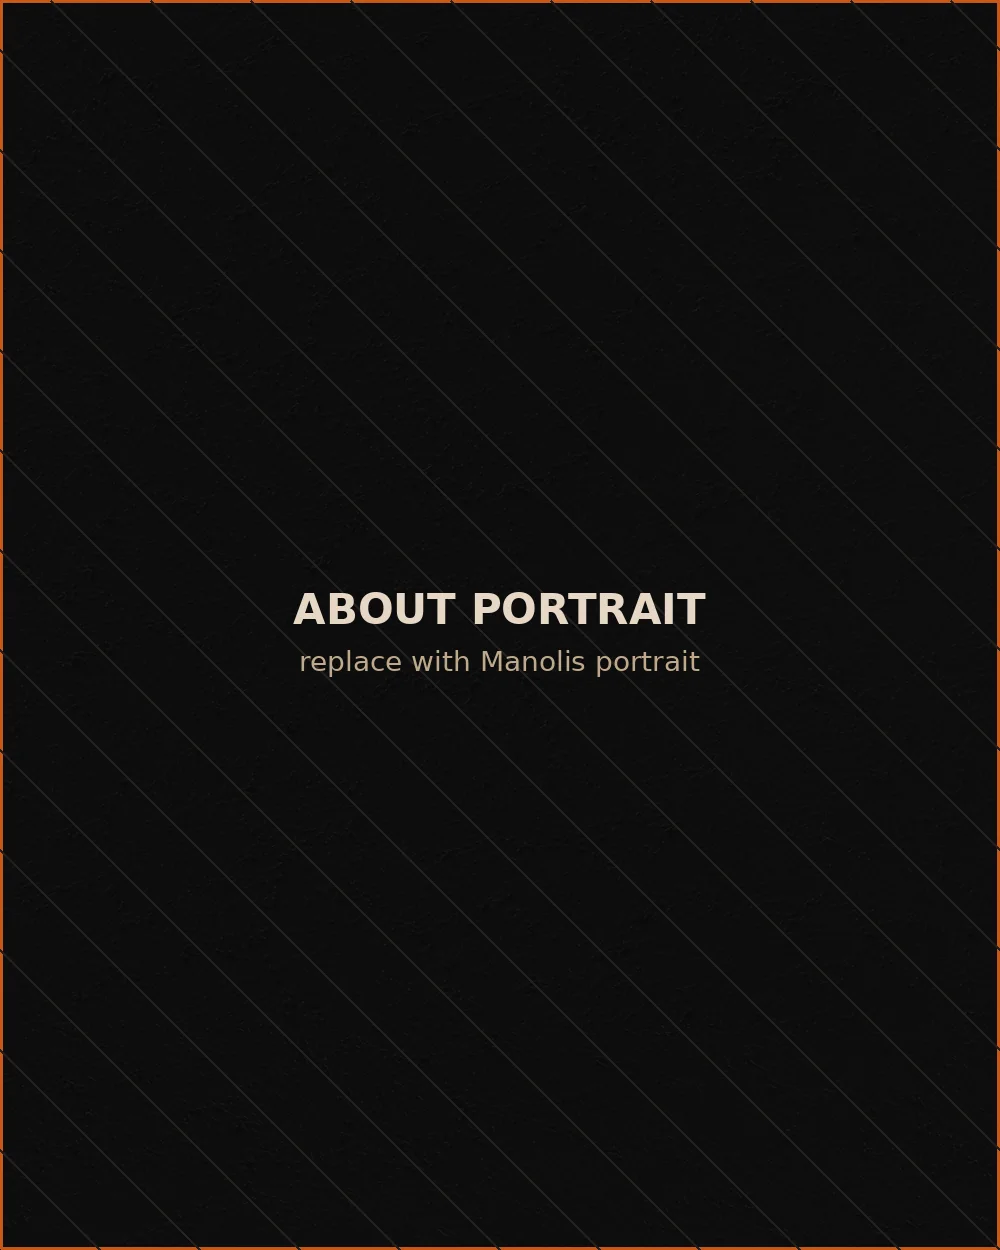
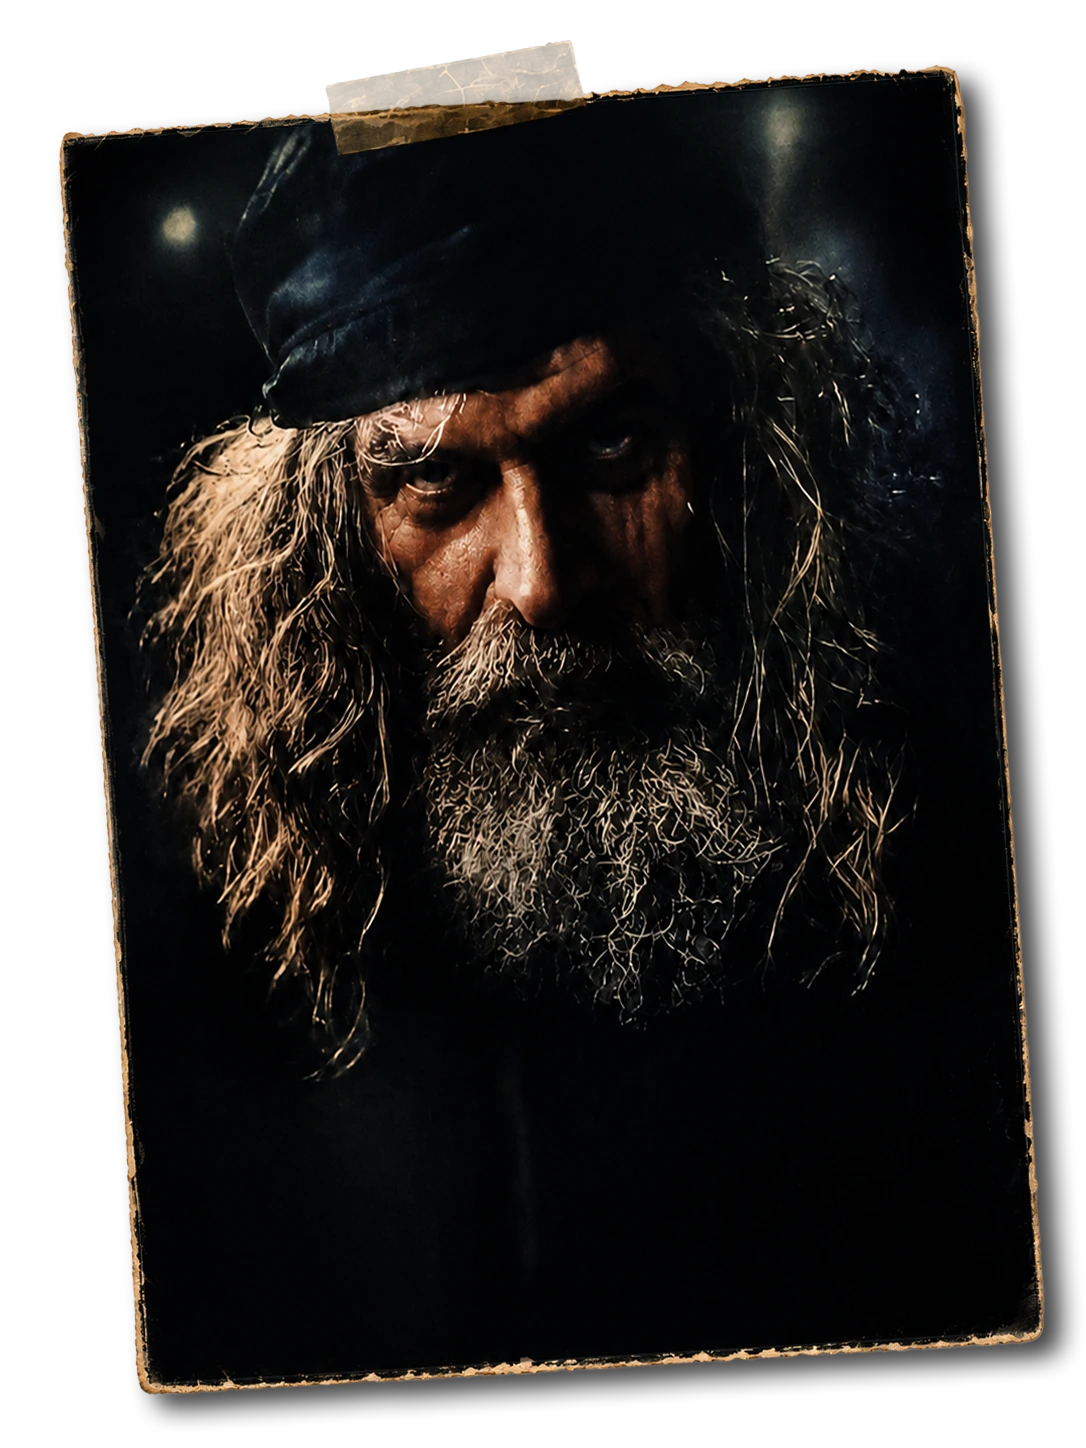
backgrounds

diff --git a/03_prototype/src/sections/AboutSection.tsx b/03_prototype/src/sections/AboutSection.tsx
@@ -7,16 +7,16 @@ import { siteContent } from '@/content/siteContent';
 
 export function AboutSection() {
   return (
-    <SectionShell id="about" className="grid items-center overflow-hidden">
+    <SectionShell id="about" className="grid items-center">
       <div className="grid gap-12 lg:grid-cols-[0.95fr_1.05fr] lg:items-center">
         <motion.div initial={{ opacity: 0, rotate: -2, y: 30 }} whileInView={{ opacity: 1, rotate: -2, y: 0 }} viewport={{ once: true, amount: 0.25 }} transition={{ duration: 0.7 }} className="relative max-w-[720px]">
-          <div className="relative min-h-[520px] overflow-hidden border border-white/10 bg-black/50 shadow-2xl md:min-h-[760px]">
+          <div className="relative min-h-[520px] overflow-hidden md:min-h-[760px]">
             <Image src="/assets/about/about-manolis-portrait.webp" alt="Manolis portrait placeholder" fill sizes="(max-width: 1024px) 100vw, 45vw" className="object-cover" />
           </div>
           <p className="mt-8 max-w-xs font-display text-2xl leading-tight text-orangeBurnt">{siteContent.about.sideQuote}</p>
         </motion.div>
 
-        <motion.div initial={{ opacity: 0, x: 30 }} whileInView={{ opacity: 1, x: 0 }} viewport={{ once: true, amount: 0.25 }} transition={{ duration: 0.7 }} className="relative texture-panel p-6 md:p-10">
+        <motion.div initial={{ opacity: 0, x: 30 }} whileInView={{ opacity: 1, x: 0 }} viewport={{ once: true, amount: 0.25 }} transition={{ duration: 0.7 }} className="relative p-6 md:p-10">
           <h2 className="brush-heading text-[clamp(4rem,8vw,9rem)] text-bone">
             {siteContent.about.headline.map((line, index) => (
               <span key={line} className={`block ${index === 1 ? 'text-orangeBurnt' : ''}`}>{line}</span>

diff --git a/03_prototype/src/sections/WorkshopSection.tsx b/03_prototype/src/sections/WorkshopSection.tsx
@@ -8,7 +8,7 @@ import { siteContent } from '@/content/siteContent';
 
 export function WorkshopSection() {
   return (
-    <SectionShell id="workshop" className="overflow-hidden">
+    <SectionShell id="workshop">
       <div className="absolute inset-x-0 top-[8%] -z-10 h-[56vh] opacity-70">
         <Image src="/assets/workshop/workshop-background.webp" alt="Workshop background placeholder" fill sizes="100vw" className="object-cover" />
         <div className="absolute inset-0 bg-gradient-to-b from-black via-black/40 to-black" />
@@ -21,7 +21,7 @@ export function WorkshopSection() {
 
         <div className="hidden lg:block" />
 
-        <motion.div initial={{ opacity: 0, x: 30 }} whileInView={{ opacity: 1, x: 0 }} viewport={{ once: true, amount: 0.25 }} transition={{ duration: 0.6 }} className="texture-panel p-6 md:p-9">
+        <motion.div initial={{ opacity: 0, x: 30 }} whileInView={{ opacity: 1, x: 0 }} viewport={{ once: true, amount: 0.25 }} transition={{ duration: 0.6 }} className="p-6 md:p-9">
           <p className="font-display text-3xl uppercase text-orangeBurnt">{siteContent.workshop.eyebrow}</p>
           <h2 className="brush-heading mt-2 text-5xl text-bone md:text-7xl">
             {siteContent.workshop.headline.map((line) => <span key={line} className="block">{line}</span>)}
@@ -33,7 +33,7 @@ export function WorkshopSection() {
 
       <div className="mt-8 grid gap-4 md:grid-cols-5">
         {siteContent.workshop.categories.map((category) => (
-          <article key={category.title} className="texture-panel min-h-40 p-5 transition-transform hover:-translate-y-1">
+            <article key={category.title} className="min-h-40 p-5 transition-transform hover:-translate-y-1">
             <Image src={category.icon} alt="" width={44} height={44} className="mb-4 opacity-80" />
             <h3 className="font-display text-xl uppercase text-bone">{category.title}</h3>
             <p className="mt-3 text-sm leading-6 text-mutedBone">{category.text}</p>

diff --git a/03_prototype/src/components/GalleryShowcase.tsx b/03_prototype/src/components/GalleryShowcase.tsx
@@ -22,7 +22,7 @@ export function GalleryShowcase() {
         ))}
       </div>
 
-      <div className="relative order-1 min-h-[420px] overflow-hidden rough-border bg-black/40 lg:order-none lg:min-h-[680px]">
+      <div className="relative order-1 min-h-[420px] overflow-hidden lg:order-none lg:min-h-[680px]">
         <AnimatePresence mode="wait">
           <motion.div key={selected.id} initial={{ opacity: 0, scale: 1.03 }} animate={{ opacity: 1, scale: 1 }} exit={{ opacity: 0, scale: 0.98 }} transition={{ duration: 0.45 }} className="absolute inset-0">
             <Image src={selected.image} alt={selected.title} fill priority={selected.id === 'ancestor'} sizes="(max-width: 1024px) 100vw, 55vw" className="object-cover" />
@@ -31,7 +31,7 @@ export function GalleryShowcase() {
         <div className="absolute inset-0 bg-gradient-to-t from-black/70 via-transparent to-black/20" />
       </div>
 
-      <div className="order-3 texture-panel p-6 md:p-9">
+      <div className="order-3 p-6 md:p-9">
         <p className="mb-5 text-xs uppercase tracking-[0.18em] text-orangeBurnt">{siteContent.gallery.eyebrow}</p>
         <AnimatePresence mode="wait">
           <motion.div key={selected.id} initial={{ opacity: 0, x: 18 }} animate={{ opacity: 1, x: 0 }} exit={{ opacity: 0, x: -18 }} transition={{ duration: 0.25 }}>

diff --git a/03_prototype/src/sections/ContactSection.tsx b/03_prototype/src/sections/ContactSection.tsx
@@ -8,7 +8,7 @@ import { siteContent } from '@/content/siteContent';
 
 export function ContactSection() {
   return (
-    <SectionShell id="contact" className="grid items-center overflow-hidden">
+    <SectionShell id="contact" className="grid items-center">
       <div className="grid gap-12 lg:grid-cols-[0.8fr_1.25fr_0.9fr] lg:items-center">
         <motion.div initial={{ opacity: 0, x: -24 }} whileInView={{ opacity: 1, x: 0 }} viewport={{ once: true, amount: 0.25 }} transition={{ duration: 0.55 }}>
           <h2 className="font-display text-5xl uppercase text-orangeBurnt md:text-7xl">{siteContent.contactSection.headline}</h2>
@@ -25,7 +25,7 @@ export function ContactSection() {
           </p>
         </motion.div>
 
-        <motion.div initial={{ opacity: 0, x: 24 }} whileInView={{ opacity: 1, x: 0 }} viewport={{ once: true, amount: 0.25 }} transition={{ duration: 0.55 }} className="texture-panel p-6 md:p-9">
+        <motion.div initial={{ opacity: 0, x: 24 }} whileInView={{ opacity: 1, x: 0 }} viewport={{ once: true, amount: 0.25 }} transition={{ duration: 0.55 }} className="p-6 md:p-9">
           <div className="grid gap-6 text-lg leading-8 text-mutedBone">
             {siteContent.contactSection.story.map((line) => <p key={line}>{line}</p>)}
           </div>

diff --git a/03_prototype/src/sections/GallerySection.tsx b/03_prototype/src/sections/GallerySection.tsx
@@ -3,7 +3,7 @@ import { GalleryShowcase } from '@/components/GalleryShowcase';
 
 export function GallerySection() {
   return (
-    <SectionShell id="gallery" className="overflow-hidden">
+    <SectionShell id="gallery">
       <GalleryShowcase />
     </SectionShell>
   );

diff --git a/03_prototype/src/sections/HomeSection.tsx b/03_prototype/src/sections/HomeSection.tsx
@@ -8,7 +8,7 @@ import { siteContent } from '@/content/siteContent';
 
 export function HomeSection() {
   return (
-    <SectionShell id="home" className="grid items-end overflow-hidden">
+    <SectionShell id="home" className="grid items-end">
       <div className="grid gap-12 lg:grid-cols-[0.9fr_1.1fr] lg:items-start">
         <motion.div initial={{ opacity: 0, y: 24 }} animate={{ opacity: 1, y: 0 }} transition={{ duration: 0.7 }} className="relative z-10">
           <h1 className="brush-heading max-w-[850px] text-[clamp(4rem,12vw,12rem)] text-bone">